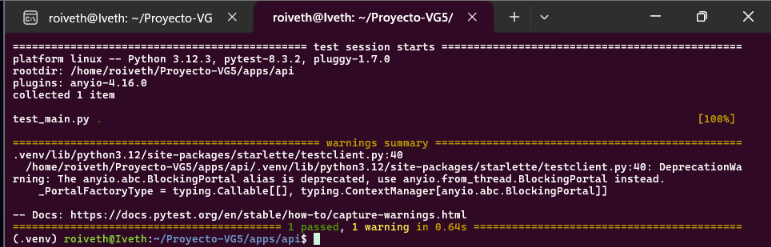
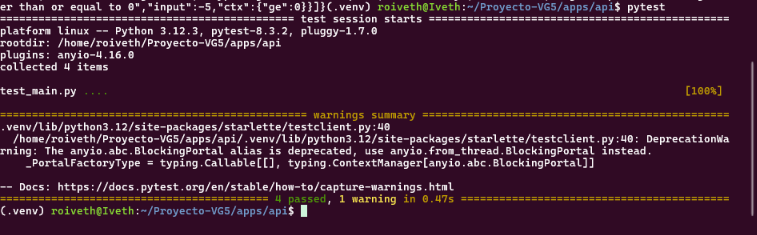
feat(api): validate product name and quantity

diff --git a/apps/api/main.py b/apps/api/main.py
@@ -2,7 +2,8 @@ import os
 import psycopg
 from fastapi import FastAPI, HTTPException
 from fastapi.middleware.cors import CORSMiddleware
-from pydantic import BaseModel
+from typing import Annotated
+from pydantic import BaseModel, Field, StringConstraints
 from prometheus_fastapi_instrumentator import Instrumentator
 
 DATABASE_URL = os.getenv("DATABASE_URL", "postgresql://app:app@localhost:5432/app")
@@ -21,9 +22,11 @@ app.add_middleware(
 Instrumentator().instrument(app).expose(app, endpoint="/metrics")
 
 
+
+
 class ProductIn(BaseModel):
-    nombre: str
-    cantidad: int
+    nombre: Annotated[str, StringConstraints(strip_whitespace=True, min_length=1, max_length=100)]
+    cantidad: int = Field(ge=0, le=1_000_000)
 
 
 def db():

diff --git a/apps/api/test_main.py b/apps/api/test_main.py
@@ -5,3 +5,18 @@ from main import app
 def test_metrics():
     r = TestClient(app).get("/metrics")
     assert r.status_code == 200
+
+
+def test_rechaza_cantidad_negativa():
+    r = TestClient(app).post("/products", json={"nombre": "X", "cantidad": -5})
+    assert r.status_code == 422
+
+
+def test_rechaza_nombre_vacio():
+    r = TestClient(app).post("/products", json={"nombre": "", "cantidad": 1})
+    assert r.status_code == 422
+
+
+def test_rechaza_nombre_solo_espacios():
+    r = TestClient(app).post("/products", json={"nombre": "   ", "cantidad": 1})
+    assert r.status_code == 422
